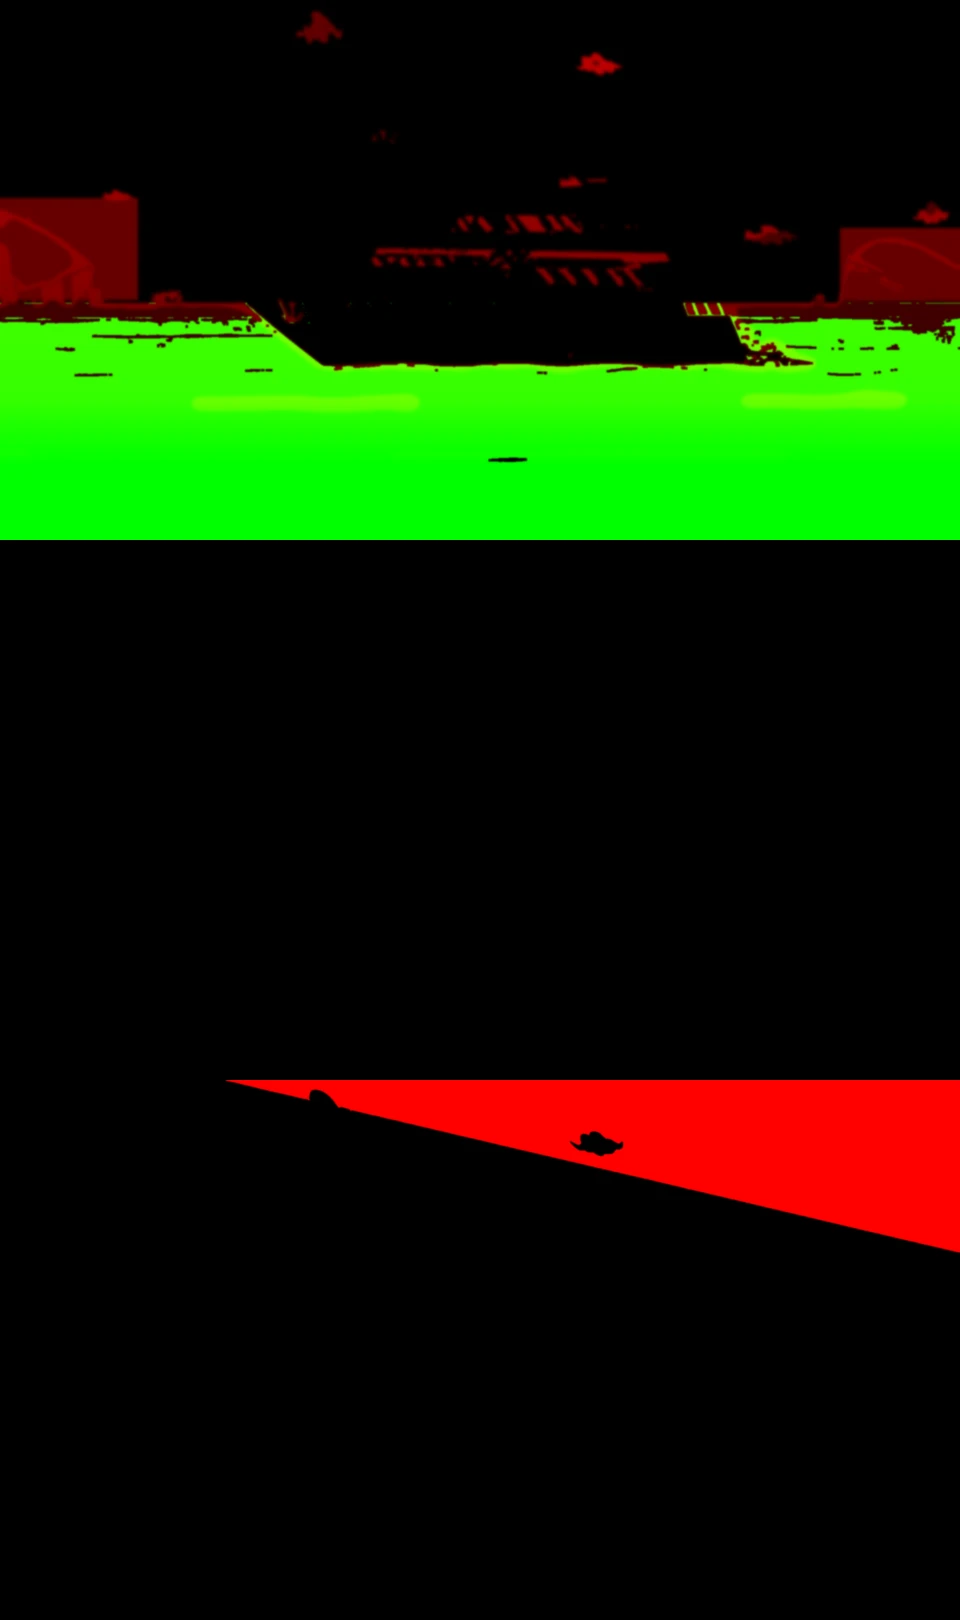
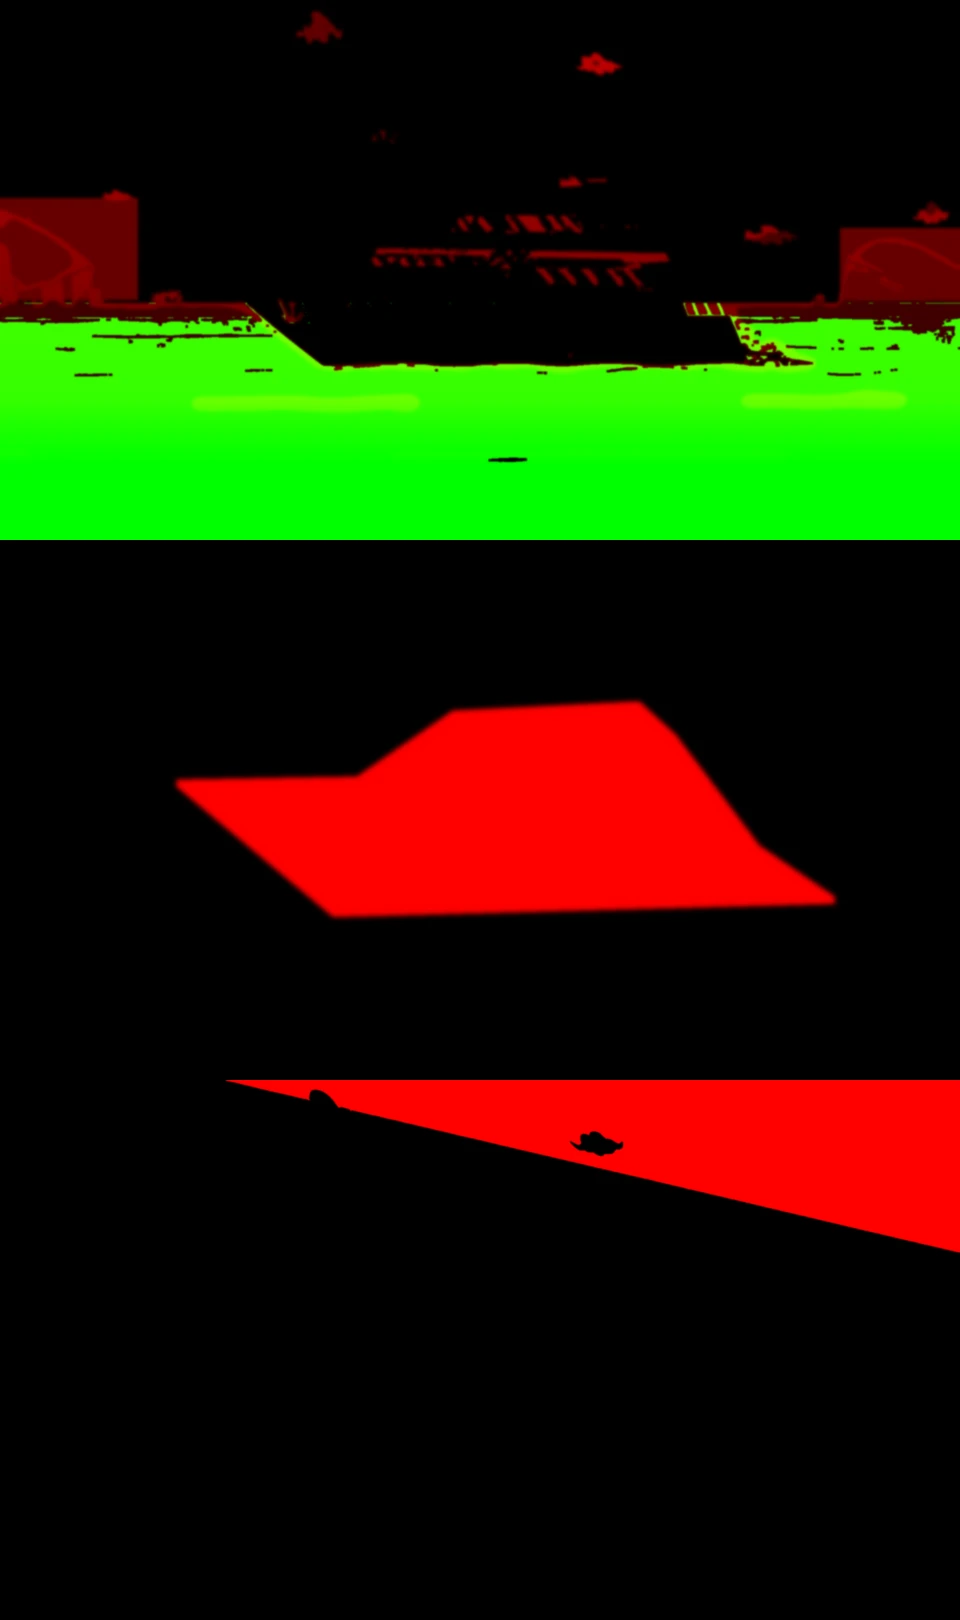
fix(td): the yacht rocks on the water and the campers on its deck rock with it, standing on the deck

Changed region(s): [[0.1875, 0.4321, 0.875, 0.5864]]

diff --git a/js/vp-td-ep/glplate.js b/js/vp-td-ep/glplate.js
@@ -12,7 +12,7 @@
 
 const VERT = `attribute vec2 p; varying vec2 v; void main(){ v = vec2(p.x * .5 + .5, .5 - p.y * .5); gl_Position = vec4(p, 0., 1.); }`;
 const FRAG = `precision mediump float;
-varying vec2 v; uniform sampler2D img, mot, sky; uniform float t, flows;
+varying vec2 v; uniform sampler2D img, mot, sky; uniform float t, flows, bobA;
 uniform vec3 gMul, gAdd, gFog; uniform float gSat, gHaze, gHot, gKeep;
 float h(vec2 p){ return fract(sin(dot(p, vec2(12.9898, 78.233))) * 43758.5453); }
 void main(){
@@ -29,7 +29,7 @@ void main(){
   // a waterfall: streaks running down, each column at its own pace
   d.y -= a.r * (fract(uv.y * 26. - t * 1.6 + h(vec2(floor(uv.x * 320.), 0.))) - .5) * .006;
   // rocking on the water
-  d += b.b * vec2(sin(t * .7) * .0012, sin(t * 1.1) * .0028);
+  d += b.b * bobA * vec2(sin(t * .7) * .0012, sin(t * 1.1) * .0028);
   // a heatwave: the air over the whole ground wavers
   d.x += gHot * sin(uv.y * 220. - t * 5.) * .0007 * smoothstep(.35, 1., uv.y);
   // a fire: the painted flame licks upward, the air above it shimmers
@@ -111,10 +111,11 @@ export function liveGL(root) {
     const loc = gl.getAttribLocation(pr, 'p'); gl.enableVertexAttribArray(loc); gl.vertexAttribPointer(loc, 2, gl.FLOAT, false, 0, 0);
     gl.uniform1i(gl.getUniformLocation(pr, 'img'), 0); gl.uniform1i(gl.getUniformLocation(pr, 'mot'), 1); gl.uniform1i(gl.getUniformLocation(pr, 'sky'), 2);
     gl.uniform1f(gl.getUniformLocation(pr, 'flows'), cv.dataset.flow ? 1 : 0);
+    const bobA = +cv.dataset.bobamp || 1; gl.uniform1f(gl.getUniformLocation(pr, 'bobA'), bobA);
     const G = GRADES[cv.dataset.grade] || {}, u = n => gl.getUniformLocation(pr, n);
     gl.uniform3fv(u('gMul'), G.mul || [1, 1, 1]); gl.uniform3fv(u('gAdd'), G.add || [0, 0, 0]); gl.uniform3fv(u('gFog'), G.fog || [.85, .87, .9]);
     gl.uniform1f(u('gSat'), G.sat ?? 1); gl.uniform1f(u('gHaze'), G.haze || 0); gl.uniform1f(u('gHot'), G.hot || 0); gl.uniform1f(u('gKeep'), G.keep || 0);
-    const s = { cv, gl, ut: gl.getUniformLocation(pr, 't'), ready: 0, raf: 0, t0: performance.now() };
+    const s = { cv, gl, ut: gl.getUniformLocation(pr, 't'), ready: 0, raf: 0, t0: performance.now(), bobA };
     cv._gl = s; live.add(s);
     const src = cv.dataset.src;
     const go = () => { if (++s.ready === 2) { cv.classList.add('on'); frame(s); } };
@@ -132,7 +133,10 @@ function frame(s) {
   const dpr = Math.min(window.devicePixelRatio || 1, 2), k = cv.closest('.push') ? 2 : 1;
   const w = Math.min(Math.round(cv.clientWidth * dpr * k), 3840), h = Math.round(w * 9 / 16);
   if (w > 0 && (cv.width !== w || cv.height !== h)) { cv.width = w; cv.height = h; gl.viewport(0, 0, w, h); }
-  gl.uniform1f(s.ut, (performance.now() - s.t0) / 1000);
+  const t = (performance.now() - s.t0) / 1000;
+  gl.uniform1f(s.ut, t);
+  // whoever is aboard a rocking boat rocks with it: the same swell, handed to the people as px
+  if (s.bobA > 1) { const wd = cv.closest('.tdx-world'); if (wd) { wd.style.setProperty('--bx', `${(Math.sin(t * .7) * .0012 * s.bobA * cv.clientWidth).toFixed(2)}px`); wd.style.setProperty('--by', `${(Math.sin(t * 1.1) * .0028 * s.bobA * cv.clientHeight).toFixed(2)}px`); } }
   gl.drawArrays(gl.TRIANGLE_STRIP, 0, 4);
   s.raf = requestAnimationFrame(() => frame(s));
 }

diff --git a/js/vp-td-ep/stage.js b/js/vp-td-ep/stage.js
@@ -80,7 +80,7 @@ export function worldHtml(screen, L) {
   // a place the show painted at this hour (sunrise, sunset, a hot afternoon) shows that painting, ungraded
   const painted = motion?.variants && !night ? String(motion.variants).split(',').find(v => v === grade) : null;
   const vkey = painted ? `${key}~${painted}` : key;
-  const gl = motion ? `<canvas class="tdx-gl" data-src="${SETS}/${vkey}" data-mot="${SETS}/${key}"${motion?.flow ? ' data-flow="1"' : ''} data-grade="${painted ? 'day' : grade}"${HD_VENUES.has(screen.venue) && !L.conf ? ' data-hd="1"' : ''}></canvas>` : '';
+  const gl = motion ? `<canvas class="tdx-gl" data-src="${SETS}/${vkey}" data-mot="${SETS}/${key}"${motion?.flow ? ' data-flow="1"' : ''}${L.scene?.bobAmp ? ` data-bobamp="${L.scene.bobAmp}"` : ''} data-grade="${painted ? 'day' : grade}"${HD_VENUES.has(screen.venue) && !L.conf ? ' data-hd="1"' : ''}></canvas>` : '';
   // under a living plate, the sky is a layer of its own: clouds and birds pass behind every tree and roof
   // (the shader leaves the plate see-through only where the frame shows open sky)
   let h = `<div class="tdx-plate" style="background-image:url('${SETS}/${vkey}.webp')"></div>${hd.replace(`${key}-hd`, `${vkey}-hd`)}<!--sky-->${gl}<div class="tdx-live">`, sky = '';
@@ -251,7 +251,7 @@ export function castAt(screen, L) {
     const h = pl.h || (pl.host ? Math.max(Math.min(pl.s * 125, 30), 16) : sit ? Math.max(Math.min(pl.s * 95, 24), 13) : Math.max(Math.min(pl.s * 125, sc.exit ? 30 : 34), bg ? 11 : 16));
     toks.push({ n, u: pl.u, v: pl.v, h, sit, host: !!pl.host, act: bg?.act || busy || null,
       speak: n === speaker || (pl.host && s.host), dim: !!(focus && focus.length && !focus.includes(n) && !pl.host && n !== speaker),
-      bg: !!bg, safe: L.safe.includes(n), out: L.out === n, conf: !!pl.close });
+      bg: !!bg, safe: L.safe.includes(n), out: L.out === n, conf: !!pl.close, aboard: !!pl.aboard });
   }
   return toks;
 }
@@ -304,7 +304,7 @@ export function shotOf(screen, L, toks) {
 export function tokHtml(t, fresh) {
   const w = t.h * 9 / 16;
   const busy = t.act ? `${t.act === 'fish' ? '<div class="tdx-rod"><i></i></div>' : ''}${t.act === 'nap' ? '<b class="tdx-zzz">z</b>' : ''}<div class="tdx-busy" title="${esc(BUSY_LABEL[t.act] || '')}"><svg viewBox="0 0 24 24">${BUSY_ICON[t.act] || ''}</svg></div>` : '';
-  const cls = ['tdx-tok', t.speak && 'speak', t.dim && 'dim', t.bg && 'bg', t.sit && 'sit', t.host && 'host', t.conf && 'conf', t.out && 'out', t.act && `act-${t.act}`].filter(Boolean).join(' ');
+  const cls = ['tdx-tok', t.speak && 'speak', t.dim && 'dim', t.bg && 'bg', t.sit && 'sit', t.host && 'host', t.conf && 'conf', t.aboard && 'aboard', t.out && 'out', t.act && `act-${t.act}`].filter(Boolean).join(' ');
   return `<div class="${cls}" data-n="${esc(t.n)}" style="left:${t.u * 100}%;top:${t.v * 100}%;height:${t.h}%;width:${w}%;z-index:${Math.round(t.v * 100) + (t.speak ? 50 : 0)}"><div class="body"><div class="shadow"></div><div class="face"><img src="${esc(avatar(t.n, t.host))}" alt="" onerror="this.style.visibility='hidden'"></div><div class="tag">${esc(t.host ? t.n + ' · host' : t.n)}</div>${t.safe ? '<i class="tdx-got"></i>' : ''}${busy}</div></div>`;
 }
 

diff --git a/js/vp-td-ep/arrival.js b/js/vp-td-ep/arrival.js
@@ -79,10 +79,10 @@ export function tdArrivalScreen(ep, o = {}) {
   // the first load out at sea, on the yacht's deck, before it reaches the dock
   const sea = A.sea ? plateKey(venue, 'yacht', 'day') : null;
   if (sea && loads[0]) {
-    const DECK = [[.27, .383], [.33, .38], [.385, .383], [.655, .45]];
+    const DECK = [[.235, .47], [.29, .468], [.345, .47], [.66, .445]];
     const first = loads[0].slice(0, DECK.length);
     steps.push({ k: 'scene', spot: 'yacht', tod: 'day', plate: sea, place: 'On the way in', time: 'Day one', focus: first, bg: [],
-      places: Object.fromEntries(first.map((n, i) => [n, { u: DECK[i][0], v: DECK[i][1], s: .06, h: 7.5 }])) });
+      places: Object.fromEntries(first.map((n, i) => [n, { u: DECK[i][0], v: DECK[i][1], s: .06, h: 7.5, aboard: true }])), bobAmp: 6 });
     steps.push({ k: 'beat', text: `The yacht cuts across the lake toward camp, ${listOf(first)} out on the deck.`, focus: first });
   }
   for (const a of order) {

diff --git a/js/vp-td-ep/style.js b/js/vp-td-ep/style.js
@@ -321,6 +321,7 @@ export const TDX_CSS = `
 .tdx .tdx-puff{position:absolute;width:3.2%;aspect-ratio:1;border-radius:50%;background:radial-gradient(circle,rgba(205,205,215,.8),rgba(150,150,165,0) 70%);transform:translate(-50%,-50%);animation:tdxPuff 1.8s ease-out forwards;pointer-events:none}
 @keyframes tdxPuff{from{transform:translate(-50%,-50%) scale(.4);opacity:.9}to{transform:translate(-170%,-150%) scale(2.8);opacity:0}}
 .tdx .tdx-tok.going .body{animation:tdxStep .4s ease-in-out infinite alternate}
+.tdx .tdx-tok.aboard{translate:var(--bx,0) var(--by,0)}
 .tdx .tdx-tok.walkin{animation:tdxWalkIn 1.2s cubic-bezier(.3,.8,.3,1) both}
 @keyframes tdxWalkIn{from{margin-left:-40cqw;opacity:0}to{margin-left:0;opacity:1}}
 .tdx .tdx-title{position:absolute;inset:0;z-index:15;display:grid;place-items:center;overflow:hidden;background:rgba(8,10,18,.4)}
